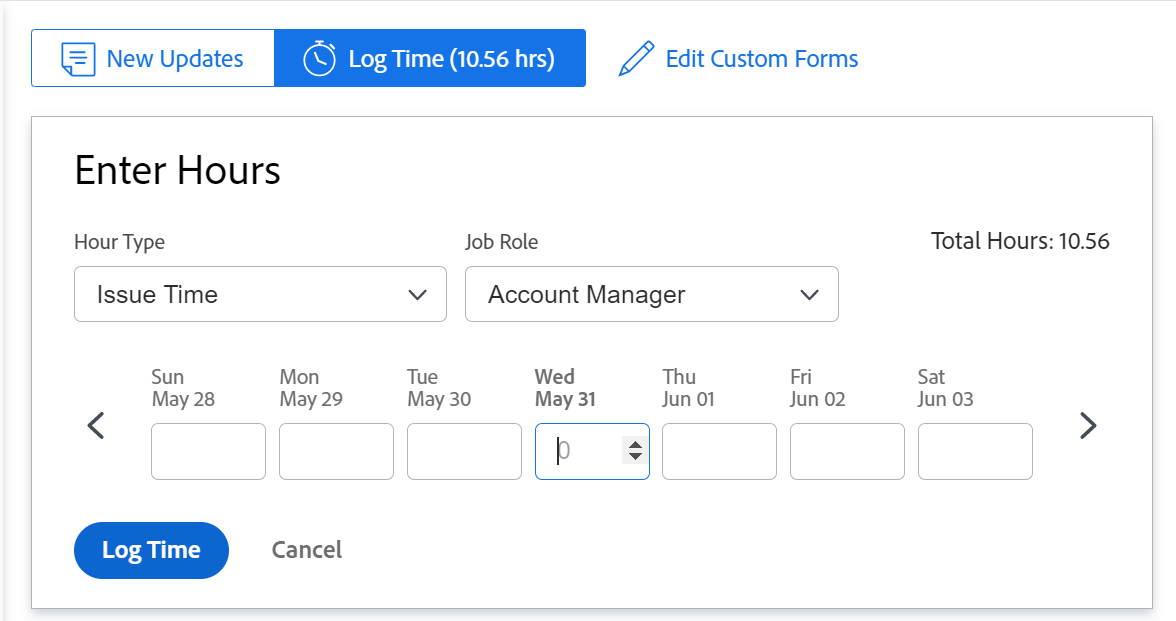
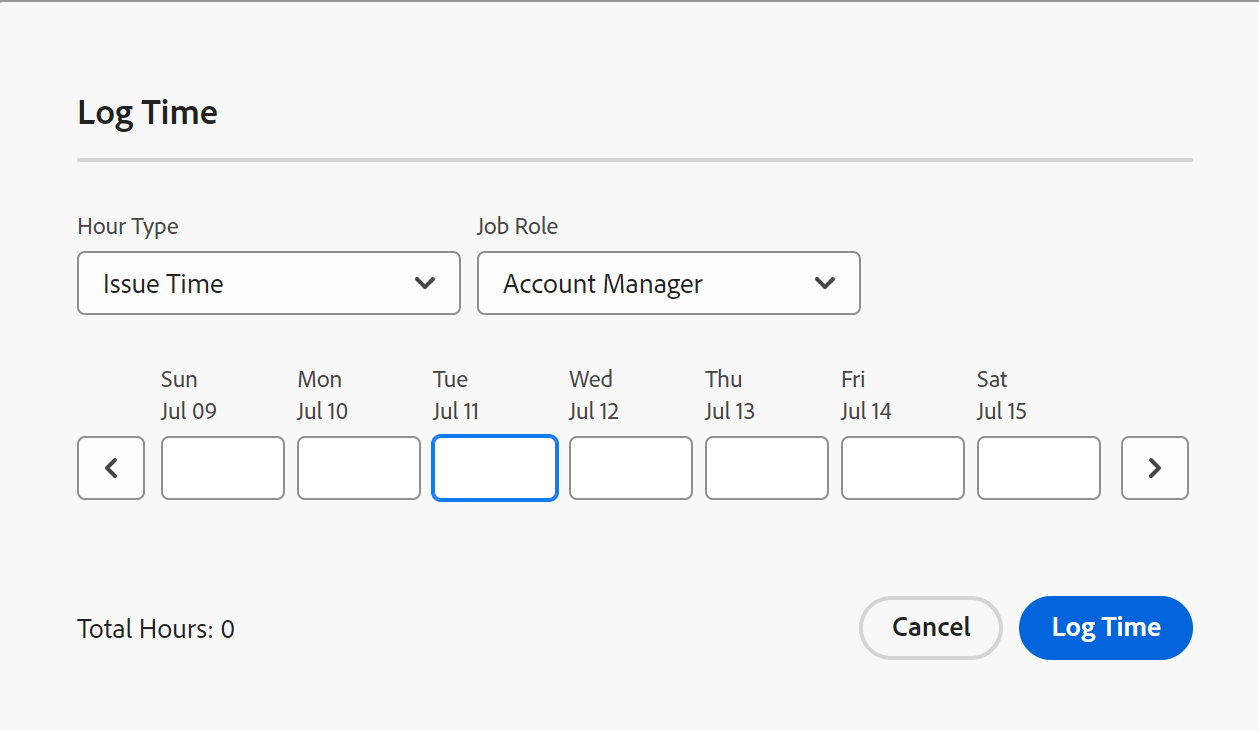
commit-aw-11-july

diff --git a/help/quicksilver/workfront-basics/updating-work-items-and-viewing-updates/tag-others-on-updates.md b/help/quicksilver/workfront-basics/updating-work-items-and-viewing-updates/tag-others-on-updates.md
@@ -92,6 +92,8 @@ Tagging others in an update differs depending on which experience and which obje
 
 ### Tag others on updates in the current Updates section
 
+You can manually tag users in the current Updates section. 
+
 1. Begin updating a work item, as described in [Update work](../../workfront-basics/updating-work-items-and-viewing-updates/update-work.md).
 1. In the **Notify** field, begin typing the name of the user or team you want to include, then click the name when it appears in the drop-down list.
 
@@ -128,9 +130,19 @@ Tagging others in an update differs depending on which experience and which obje
 
 ### Tag others on updates in the commenting Beta experience
 
-You can tag others on updates in the commenting Beta experience. You can also remove users who are tagged by mistake when you edit a comment. 
+<!--replace the first paragraph in this section with the commented out piece when this releases to preview - July 13, 2023??
 
-1. Begin updating a work item, as described in [Update work](../../workfront-basics/updating-work-items-and-viewing-updates/update-work.md).
+You can tag others on updates in the new commenting experience in the following ways:
+
+* <span class="preview"> **Automatically**: When a user adds a comment or a reply, they are automatically tagged and added to the Tag people or teams area of the commenting box. </span>
+* **Manually**: When you manually add a user to the Tag people area of the commenting box.
+
+You can also remove users who are tagged by mistake when you edit or reply to a comment.-->
+
+
+You can manually tag others on updates in the commenting Beta experience. You can also remove users who are tagged by mistake when you edit or reply to a comment. 
+
+1. Begin updating a work item, as described in [Update work](../../workfront-basics/updating-work-items-and-viewing-updates/update-work.md). <!--<span class="preview">As the comment owner, you are automatically tagged and added to the Tag people or teams area of the commenting box. </span> -->
 1. In the **Tag people or teams** field, begin typing the name of the user or team you want to include, then click the name when it appears in the drop-down list.
  
    Or

diff --git a/help/quicksilver/workfront-basics/updating-work-items-and-viewing-updates/update-work.md b/help/quicksilver/workfront-basics/updating-work-items-and-viewing-updates/update-work.md
@@ -38,7 +38,7 @@ exl-id: 0f4d6895-6326-4a83-9bbc-bb58c876e7fc
 
 You can add comments to most objects in Adobe Workfront in the Updates section. For more information about which objects display the Updates section, see [Updates section overview](../updating-work-items-and-viewing-updates/updates-tab-overview.md). 
 
-You can add an update on an Workfront object (project, task, or issue) to communicate about progress on the object, as you comment on the object. Users who are assigned or subscribed to the object can view your update. You can also tag users to bring their attention to the update. Tagged users receive an in-app notification and an email about your update. 
+You can add an update on an Workfront object (project, task, or issue) to communicate about progress on the object, as you comment on the object. Users who are assigned or subscribed to the object can view your update. You can also tag users to bring their attention to the update. Tagged users receive an in-app notification and an email about your update. For more information, see [Tag others on updates](../../workfront-basics/updating-work-items-and-viewing-updates/tag-others-on-updates.md). 
 
 You can add a comment to an object that you can view, or you can log in as a Workfront or group administrator and add a comment on behalf of another user. For more information, see [Log in as another user](../../administration-and-setup/add-users/create-and-manage-users/log-in-as-another-user.md). 
 

diff --git a/help/quicksilver/timesheets/create-and-manage-timesheets/log-time.md b/help/quicksilver/timesheets/create-and-manage-timesheets/log-time.md
@@ -383,7 +383,7 @@ To log time in the Updates section of a project, task, or issue:
 1. In the left panel, select **Updates**.
 1. Click **Log Time**.
 
-   The Enter Hours dialog box displays. 
+   <span class="preview">The Log Time dialog box displays. </span>
    
    >[!TIP]
    >
@@ -391,7 +391,7 @@ To log time in the Updates section of a project, task, or issue:
    >   
    >   There is an indication in the upper-right corner of the Enter Days box of how many hours are included in a day. 
 
-   ![](assets/log-time-box-in-updates-stream.png)
+   <span class="preview">![](assets/log-time-box-in-updates-stream.png)</span>
 
 1. Specify the following information:
 

diff --git a/help/quicksilver/product-announcements/betas/new-commenting-experience-beta/new-commenting-beta-experience-release-activity.md b/help/quicksilver/product-announcements/betas/new-commenting-experience-beta/new-commenting-beta-experience-release-activity.md
@@ -75,11 +75,9 @@ We have redesigned the interface for logging time from the Updates area in the n
 
 For more information, see [Log time](../../../timesheets/create-and-manage-timesheets/log-time.md). The documentation will be updated at the time of the release.
 
-Preview release for projects, tasks, and issues: July 5, 2023 
+Preview release: July 5, 2023 
 
-Production release for issues: July 6, 2023 
-
-Planned Production release for projects and tasks: with the 23.3 release
+Production release: with the 23.3 release
 
 #### Quote comment content in a new reply 
 
